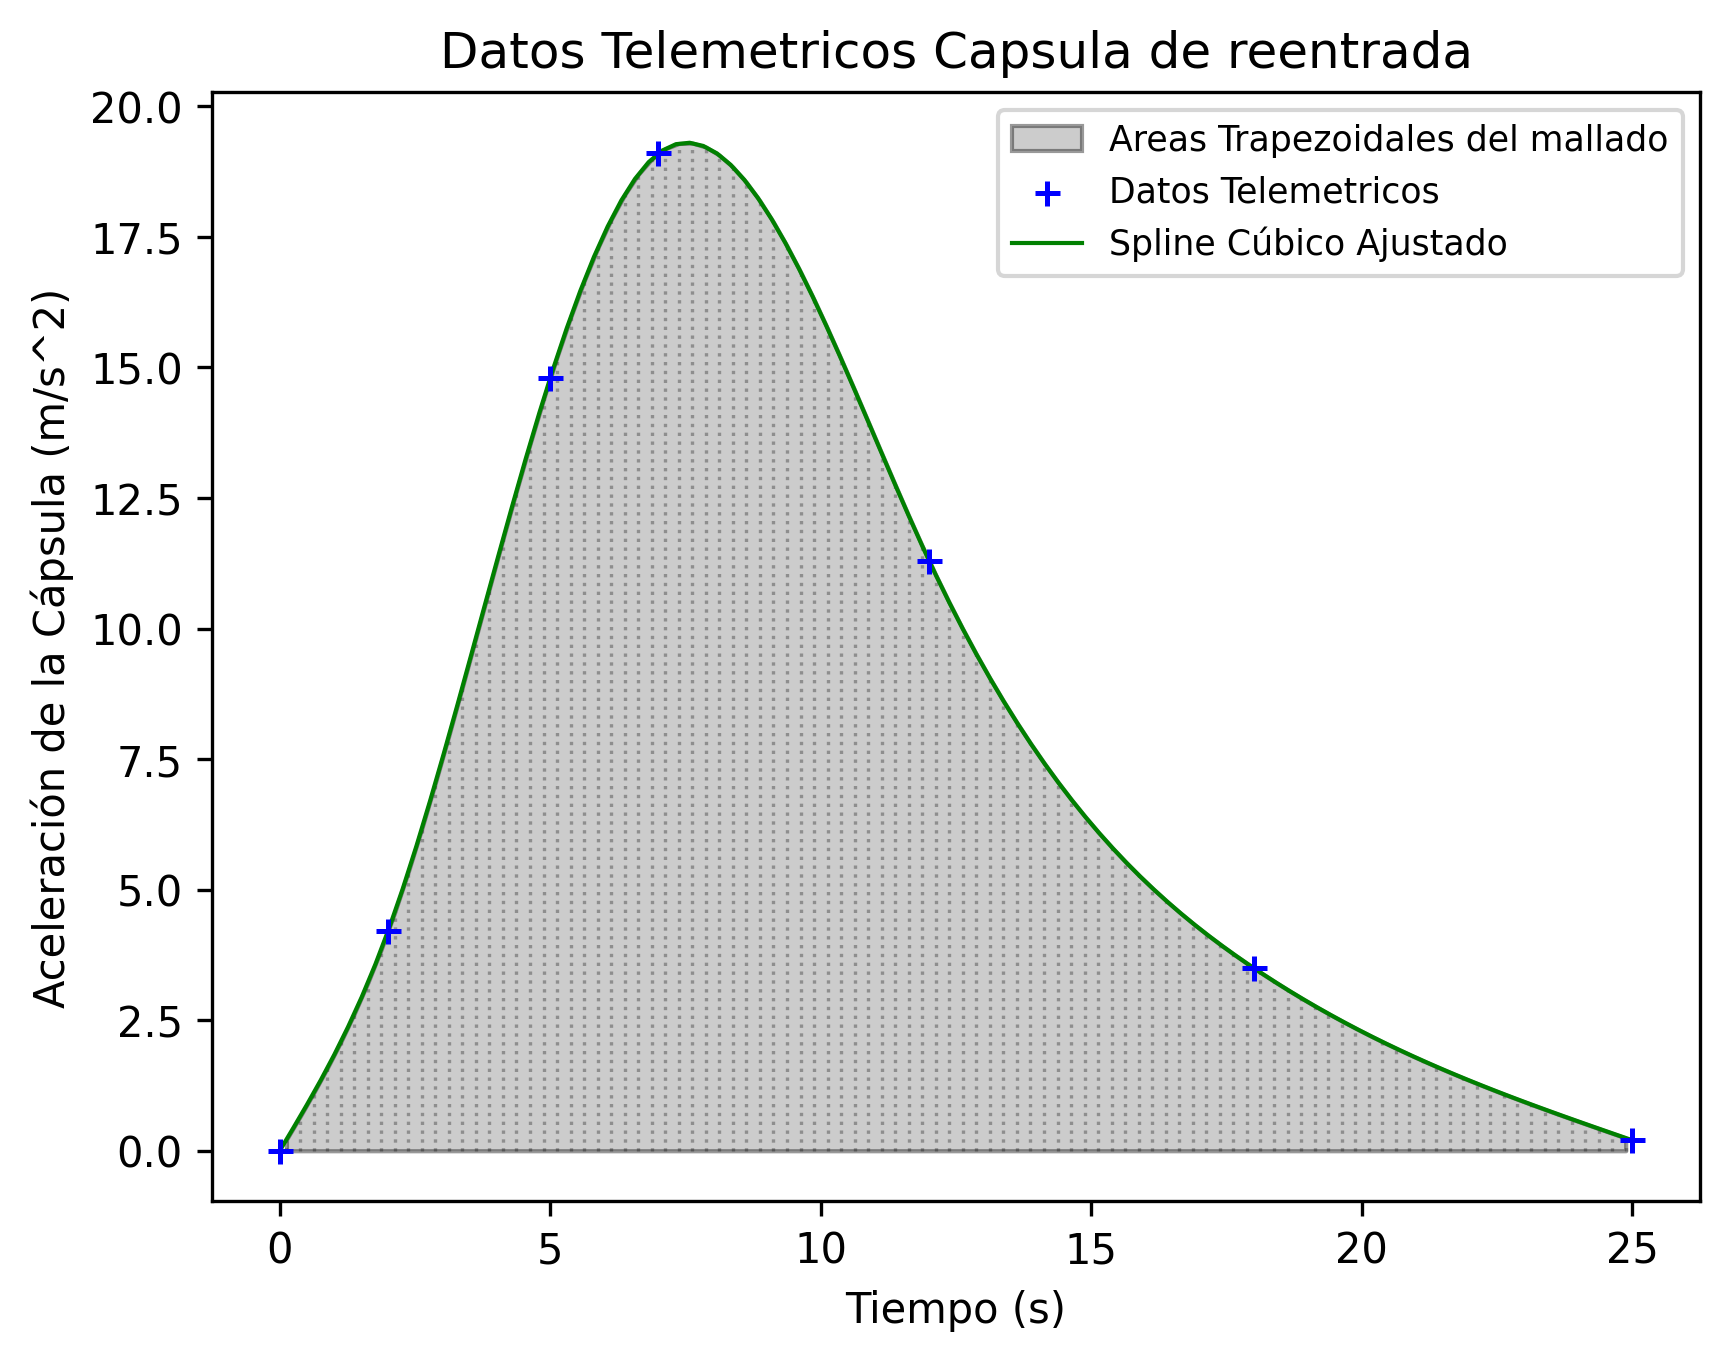
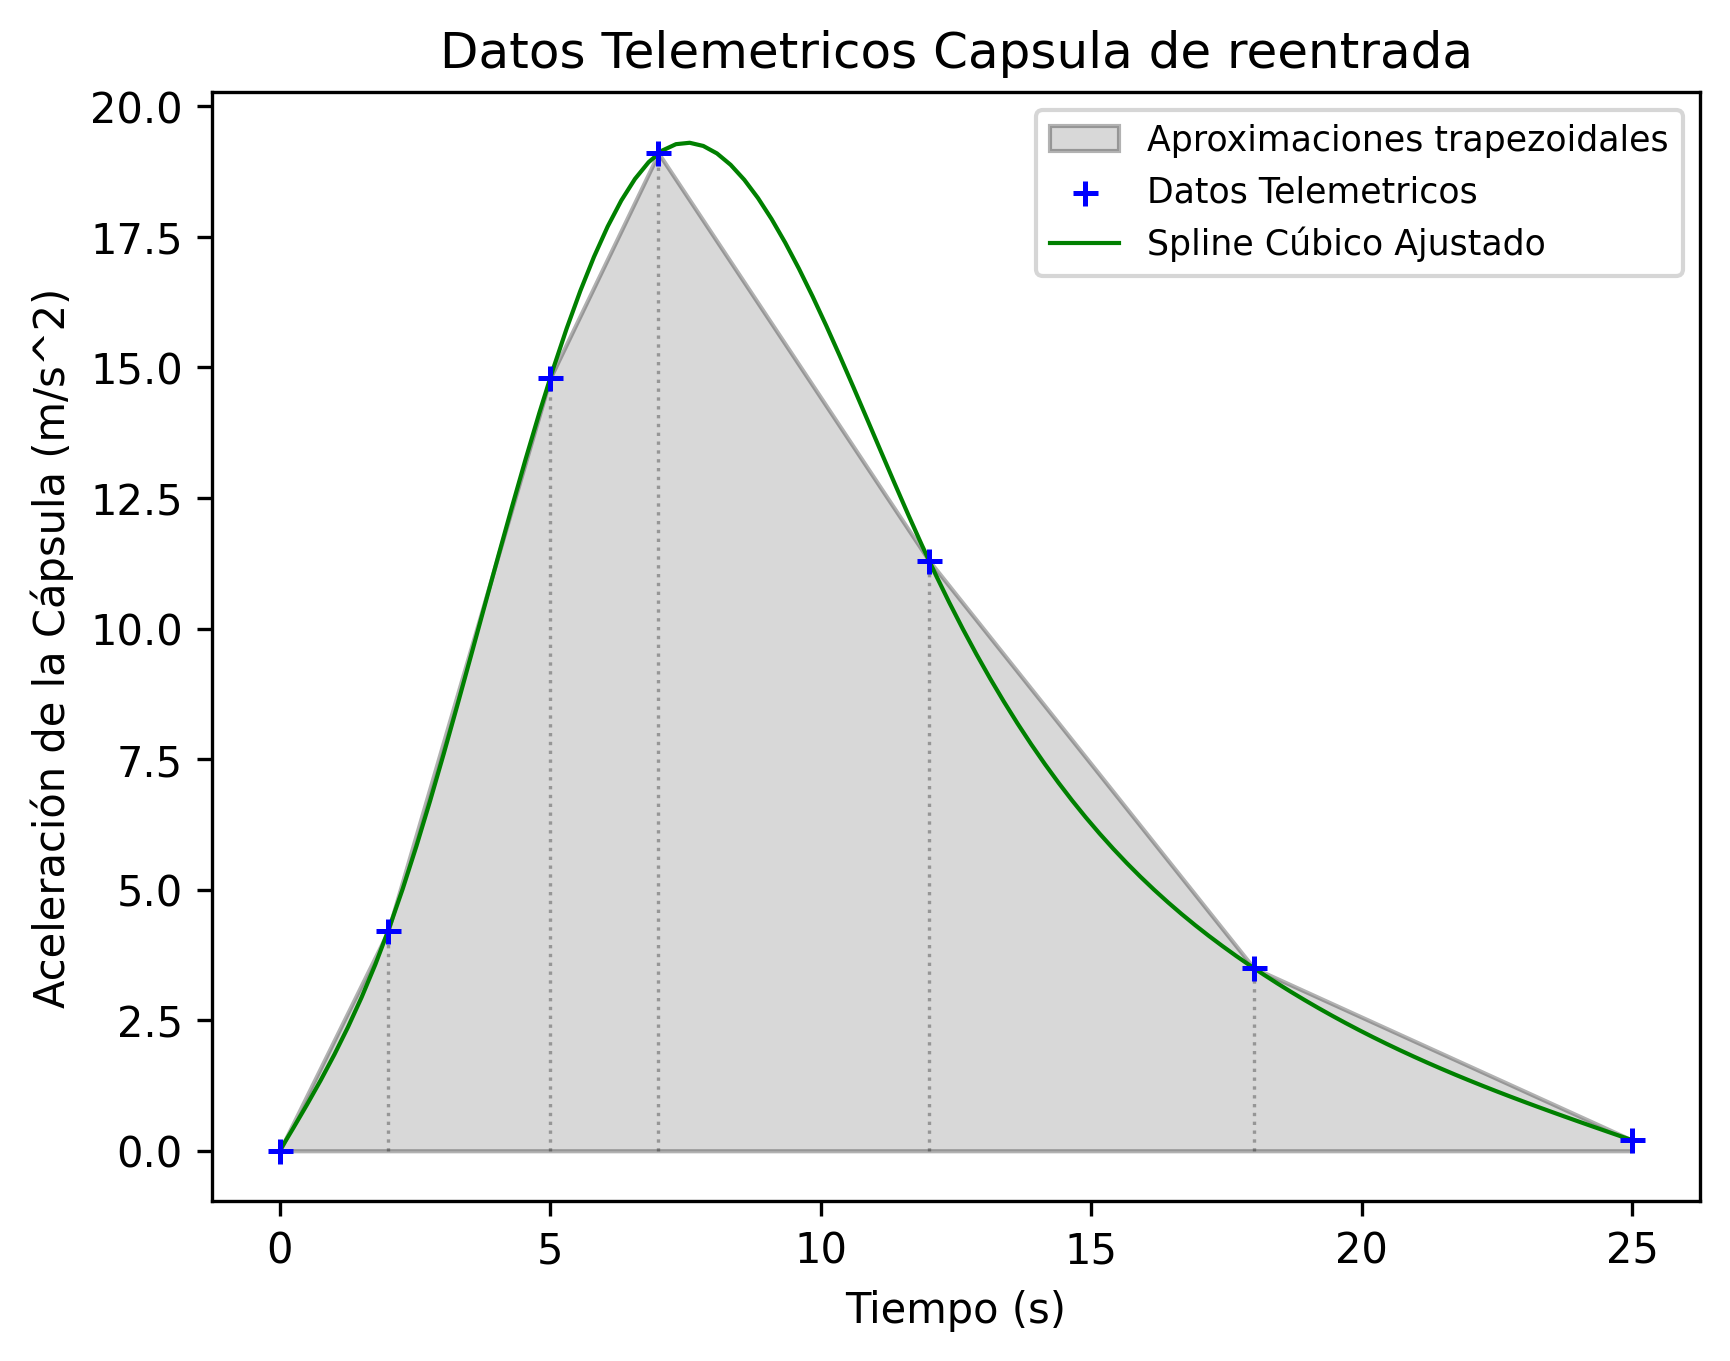
fixed typos and minor errors

Changed region(s): [[0.1561, 0.0926, 0.9364, 0.8641], [0.5618, 0.0926, 0.9676, 0.1852]]

diff --git a/p3_aerospacial.py b/p3_aerospacial.py
@@ -18,8 +18,8 @@ def plot(spline, pMedios, datosCrudos, fname="p3_plot.png", hasSave=False):
     plt.ylabel("Aceleración de la Cápsula (m/s^2)")
     plt.title("Datos Telemetricos Capsula de reentrada")
 
-    plt.fill_between(pMedios, spline(pMedios), color='gray', alpha=0.4, edgecolor='black', lw=1.0, label="Areas Trapezoidales del mallado")
-    plt.vlines(x=pMedios, ymin=0, ymax=spline(pMedios), color='black', ls=":", alpha=0.3, lw=0.8)
+    plt.fill_between(datosCrudos[0], datosCrudos[1], color='gray', alpha=0.3, edgecolor='black', lw=1.0, label="Aproximaciones trapezoidales")
+    plt.vlines(x=datosCrudos[0], ymin=0, ymax=datosCrudos[1], color='black', ls=":", alpha=0.3, lw=0.8)
     plt.scatter(datosCrudos[0], datosCrudos[1], marker='+', c='b', lw=1.2, label="Datos Telemetricos", zorder=5)
     plt.plot(x, spline(x), c='green', lw=1, ls='-', label="Spline Cúbico Ajustado")
 
@@ -73,7 +73,7 @@ def deltaV(t, a, n=100, bc_type=None, showFuncs=False, hasPlot=False):
 
     if hasPlot:
         datosCrudos = [t, a]
-        plot(spline, m, datosCrudos, fname="p3_plot.png")
+        plot(spline, m, datosCrudos, fname="p3_plot.png", hasSave=True)
     
     return dV
 
